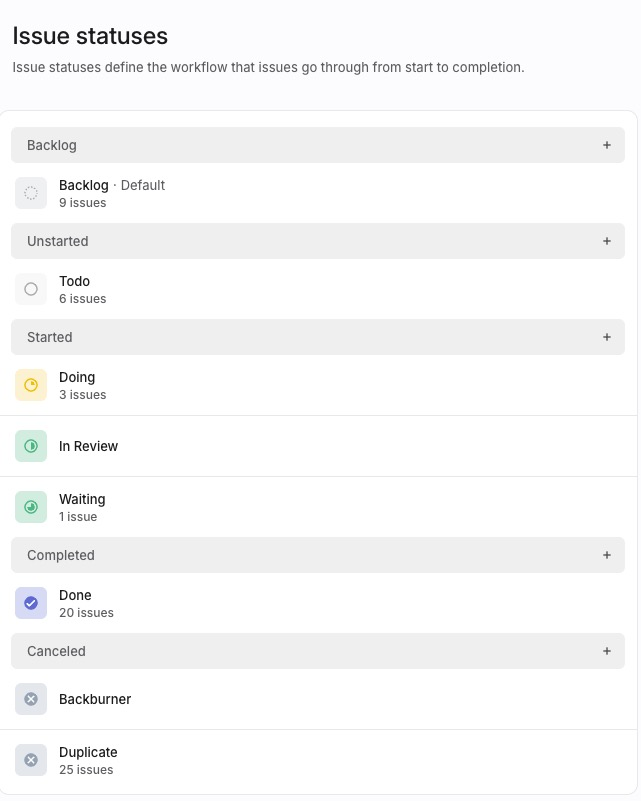
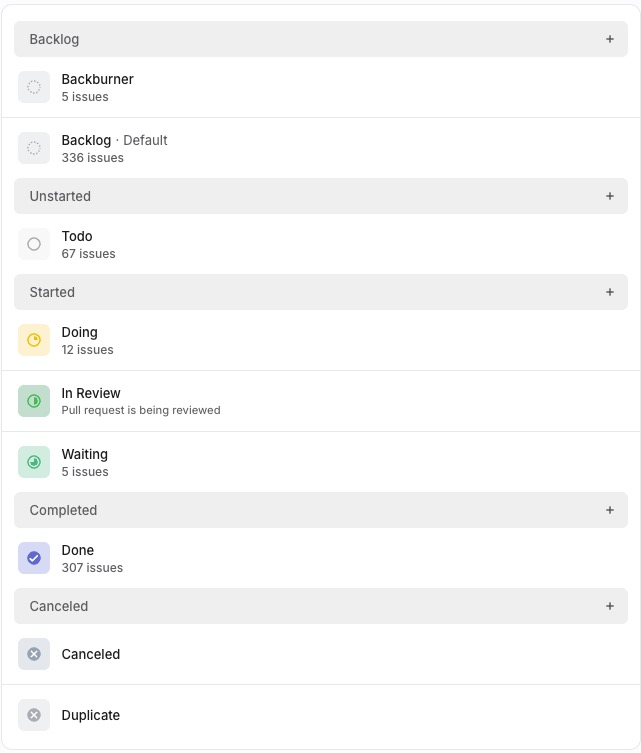
docs: Explain status organisation rationale
Readers need to understand why statuses are grouped
the way they are — not just what to set. Backburner
under Backlog keeps deferred work visible for periodic
review rather than burying it under Canceled. Waiting
under Started counts against WIP limits so blocked
work stays visible as an active concern.

- Backburner is not a graveyard — stays reviewable
- Waiting counts against WIP, not hidden as unstarted
- Canceled vs Duplicate: decision vs consolidation
- Note that API/MCP cannot configure statuses

diff --git a/docs/reference/issue-statuses.md b/docs/reference/issue-statuses.md
@@ -25,5 +25,17 @@ The board column names come from your team's issue statuses.
 
 Renaming a status updates the corresponding board column label for that team. See the [Kanban process](/reference/kanban) for what each column means and how work flows between them.
 
+**Note:** Issue statuses can only be configured through the Linear UI — the API and MCP don't support creating, renaming, or reordering status definitions.
+
+### Recommended statuses
+
 ![Issue statuses in Linear](/linear/issue-statuses.jpg)
+
+### Why this organisation
+
+**Backburner sits under Backlog, not Canceled** — backburner is not a graveyard. These are valid items that have been intentionally deferred, not rejected. Keeping them in the Backlog category means they stay visible during periodic reviews and can be promoted back to To do when the time is right. If they were under Canceled, they'd disappear from the active board and never get revisited.
+
+**Waiting sits under Started, not Unstarted** — a waiting item is in-flight work that's blocked on something external. It's not new work sitting in a queue — someone has already started it. Keeping it under Started means it counts against Work In Progress ("WIP") limits and stays visible as an active concern that needs unblocking.
+
+**Canceled vs Duplicate are separate statuses** — both are terminal, but for different reasons. Canceled means "we decided not to do this." Duplicate means "this is covered by another issue." The distinction matters when reviewing closed work — it tells you whether a decision was made or whether work was consolidated.
 